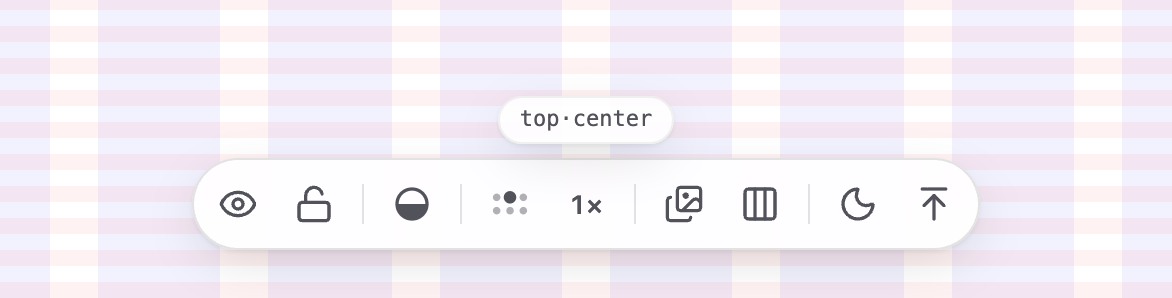
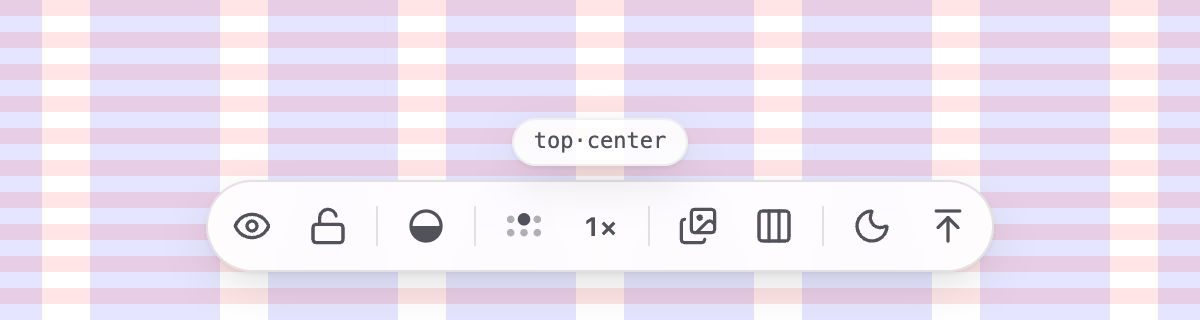
chore: release v2.1.0

diff --git a/README.md b/README.md
@@ -1,6 +1,6 @@
 # Pixel Mirror
 
-![screenshot](./docs/app.png)
+![Pixel Mirror toolbar with layout and spacing grids](https://raw.githubusercontent.com/P233/pixel-mirror/v2.1.0/docs/app.png)
 
 Overlay design mockups on web pages for pixel-perfect UI implementation. Features adjustable transparency, scaling, alignment, and grid guides.
 
@@ -28,21 +28,21 @@ The mockup overlay has 5 modes:
 
 ### Desktop
 
-| Action                          | Shortcut                                                                 |
-| ------------------------------- | ------------------------------------------------------------------------ |
-| Add mockups                     | Drop images on the page, or Mockup Studio                                |
-| Show / Hide mockup              | Toolbar button                                                           |
-| Lock / Unlock position          | `Escape` or toolbar button                                               |
-| Snap to an edge or center       | Hover the alignment button; click it for top center                      |
-| Adjust opacity                  | Hover the opacity button, or `Ctrl + Scroll` (click the button to reset) |
-| Drag mockup                     | Mouse drag on overlay                                                    |
-| Nudge mockup (1px)              | Arrow keys                                                               |
-| Nudge mockup (10px)             | `Shift` + Arrow keys                                                     |
-| Enter solid mode (100% opacity) | Hold `Space`                                                             |
-| Zoom (2x) in solid mode         | Click                                                                    |
-| Pan in zoomed mode              | Move mouse                                                               |
-| Cycle scale (1x / 0.5x)         | Toolbar button                                                           |
-| Grid color opacity              | Scroll over the color field in Grid Studio                               |
+| Action                          | Shortcut                                                                                     |
+| ------------------------------- | -------------------------------------------------------------------------------------------- |
+| Add mockups                     | Drop images on the page, or Mockup Studio                                                    |
+| Show / Hide mockup              | Toolbar button                                                                               |
+| Lock / Unlock position          | `Escape` or toolbar button                                                                   |
+| Snap to an edge or center       | Hover the alignment button; click it for top center                                          |
+| Adjust opacity                  | Hover the opacity button, or focus it and press `Enter`, or `Ctrl + Scroll` (click to reset) |
+| Drag mockup                     | Mouse drag on overlay                                                                        |
+| Nudge mockup (1px)              | Arrow keys                                                                                   |
+| Nudge mockup (10px)             | `Shift` + Arrow keys                                                                         |
+| Enter solid mode (100% opacity) | Hold `Space`                                                                                 |
+| Zoom (2x) in solid mode         | Click                                                                                        |
+| Pan in zoomed mode              | Move mouse                                                                                   |
+| Cycle scale (1x / 0.5x)         | Toolbar button                                                                               |
+| Grid color opacity              | Scroll over the color field in Grid Studio                                                   |
 
 Moving the mockup only releases the alignment of the axis you move it along: center it horizontally, then nudge it down with the arrow keys to check a section further down the page.
 
@@ -120,11 +120,35 @@ Remove in production.
 
 ## Note
 
-This tool sets an inline `position: relative` style on the `<html>` element for overlay positioning. This may affect layouts that depend on the default `static` positioning of `<html>`.
+Pixel Mirror leaves the host `<html>` element's `position` unchanged. The mockup uses a fixed viewport clip, with a separate scroll translation to keep it aligned with its document coordinates. Scrolling is separate from the image's move and scale transitions.
+
+Scroll compensation runs in JavaScript and can [lag behind asynchronous scrolling](https://firefox-source-docs.mozilla.org/performance/scroll-linked_effects.html) while the main thread is busy.
+
+Avoid `transform` or `contain: layout` on `<html>`, which can affect the positioning of the mockup, toolbar and grids.
+
+Spacing grids use alternating horizontal stripes with a default height of `8px`. Height accepts `px` and `rem`, with `4px`, `8px` and `16px` presets. Saved heights are retained.
 
 On touch devices, browser pinch-to-zoom is temporarily disabled while the mockup overlay is visible to avoid conflicts with the tool's gesture handling. It reverts to normal when the overlay is hidden.
 
 If your page enforces [Trusted Types](https://developer.mozilla.org/docs/Web/API/Trusted_Types_API) (`require-trusted-types-for 'script'`), allow the `svelte-trusted-html` policy in your dev CSP, e.g. `trusted-types your-policies svelte-trusted-html 'allow-duplicates'` (`'allow-duplicates'` is only needed if your app also uses Svelte).
+
+## Development
+
+Use Node.js 24 and pnpm 12.11.2:
+
+```bash
+pnpm install --frozen-lockfile
+pnpm check
+pnpm lint
+pnpm build
+pnpm test:run
+```
+
+CI runs these checks on pushes and pull requests. The build runs before tests so the Vite plugin tests can serve the bundle.
+
+Settings updates merge only changed fields in an IndexedDB transaction. Failed settings and resource loads retry when the window regains focus; failed writes retry on the next edit. Loading settings preserves edits whose writes are still in flight.
+
+Layout and spacing grids use a 1%–99% opacity range and default to 10%. Grid colors entered as text, picked natively or loaded from stored settings are clamped to this range. Mockup opacity ranges from 10% to 90%, with a default of 50%. Solid mode uses 100% opacity for comparison.
 
 ## Credits
 
